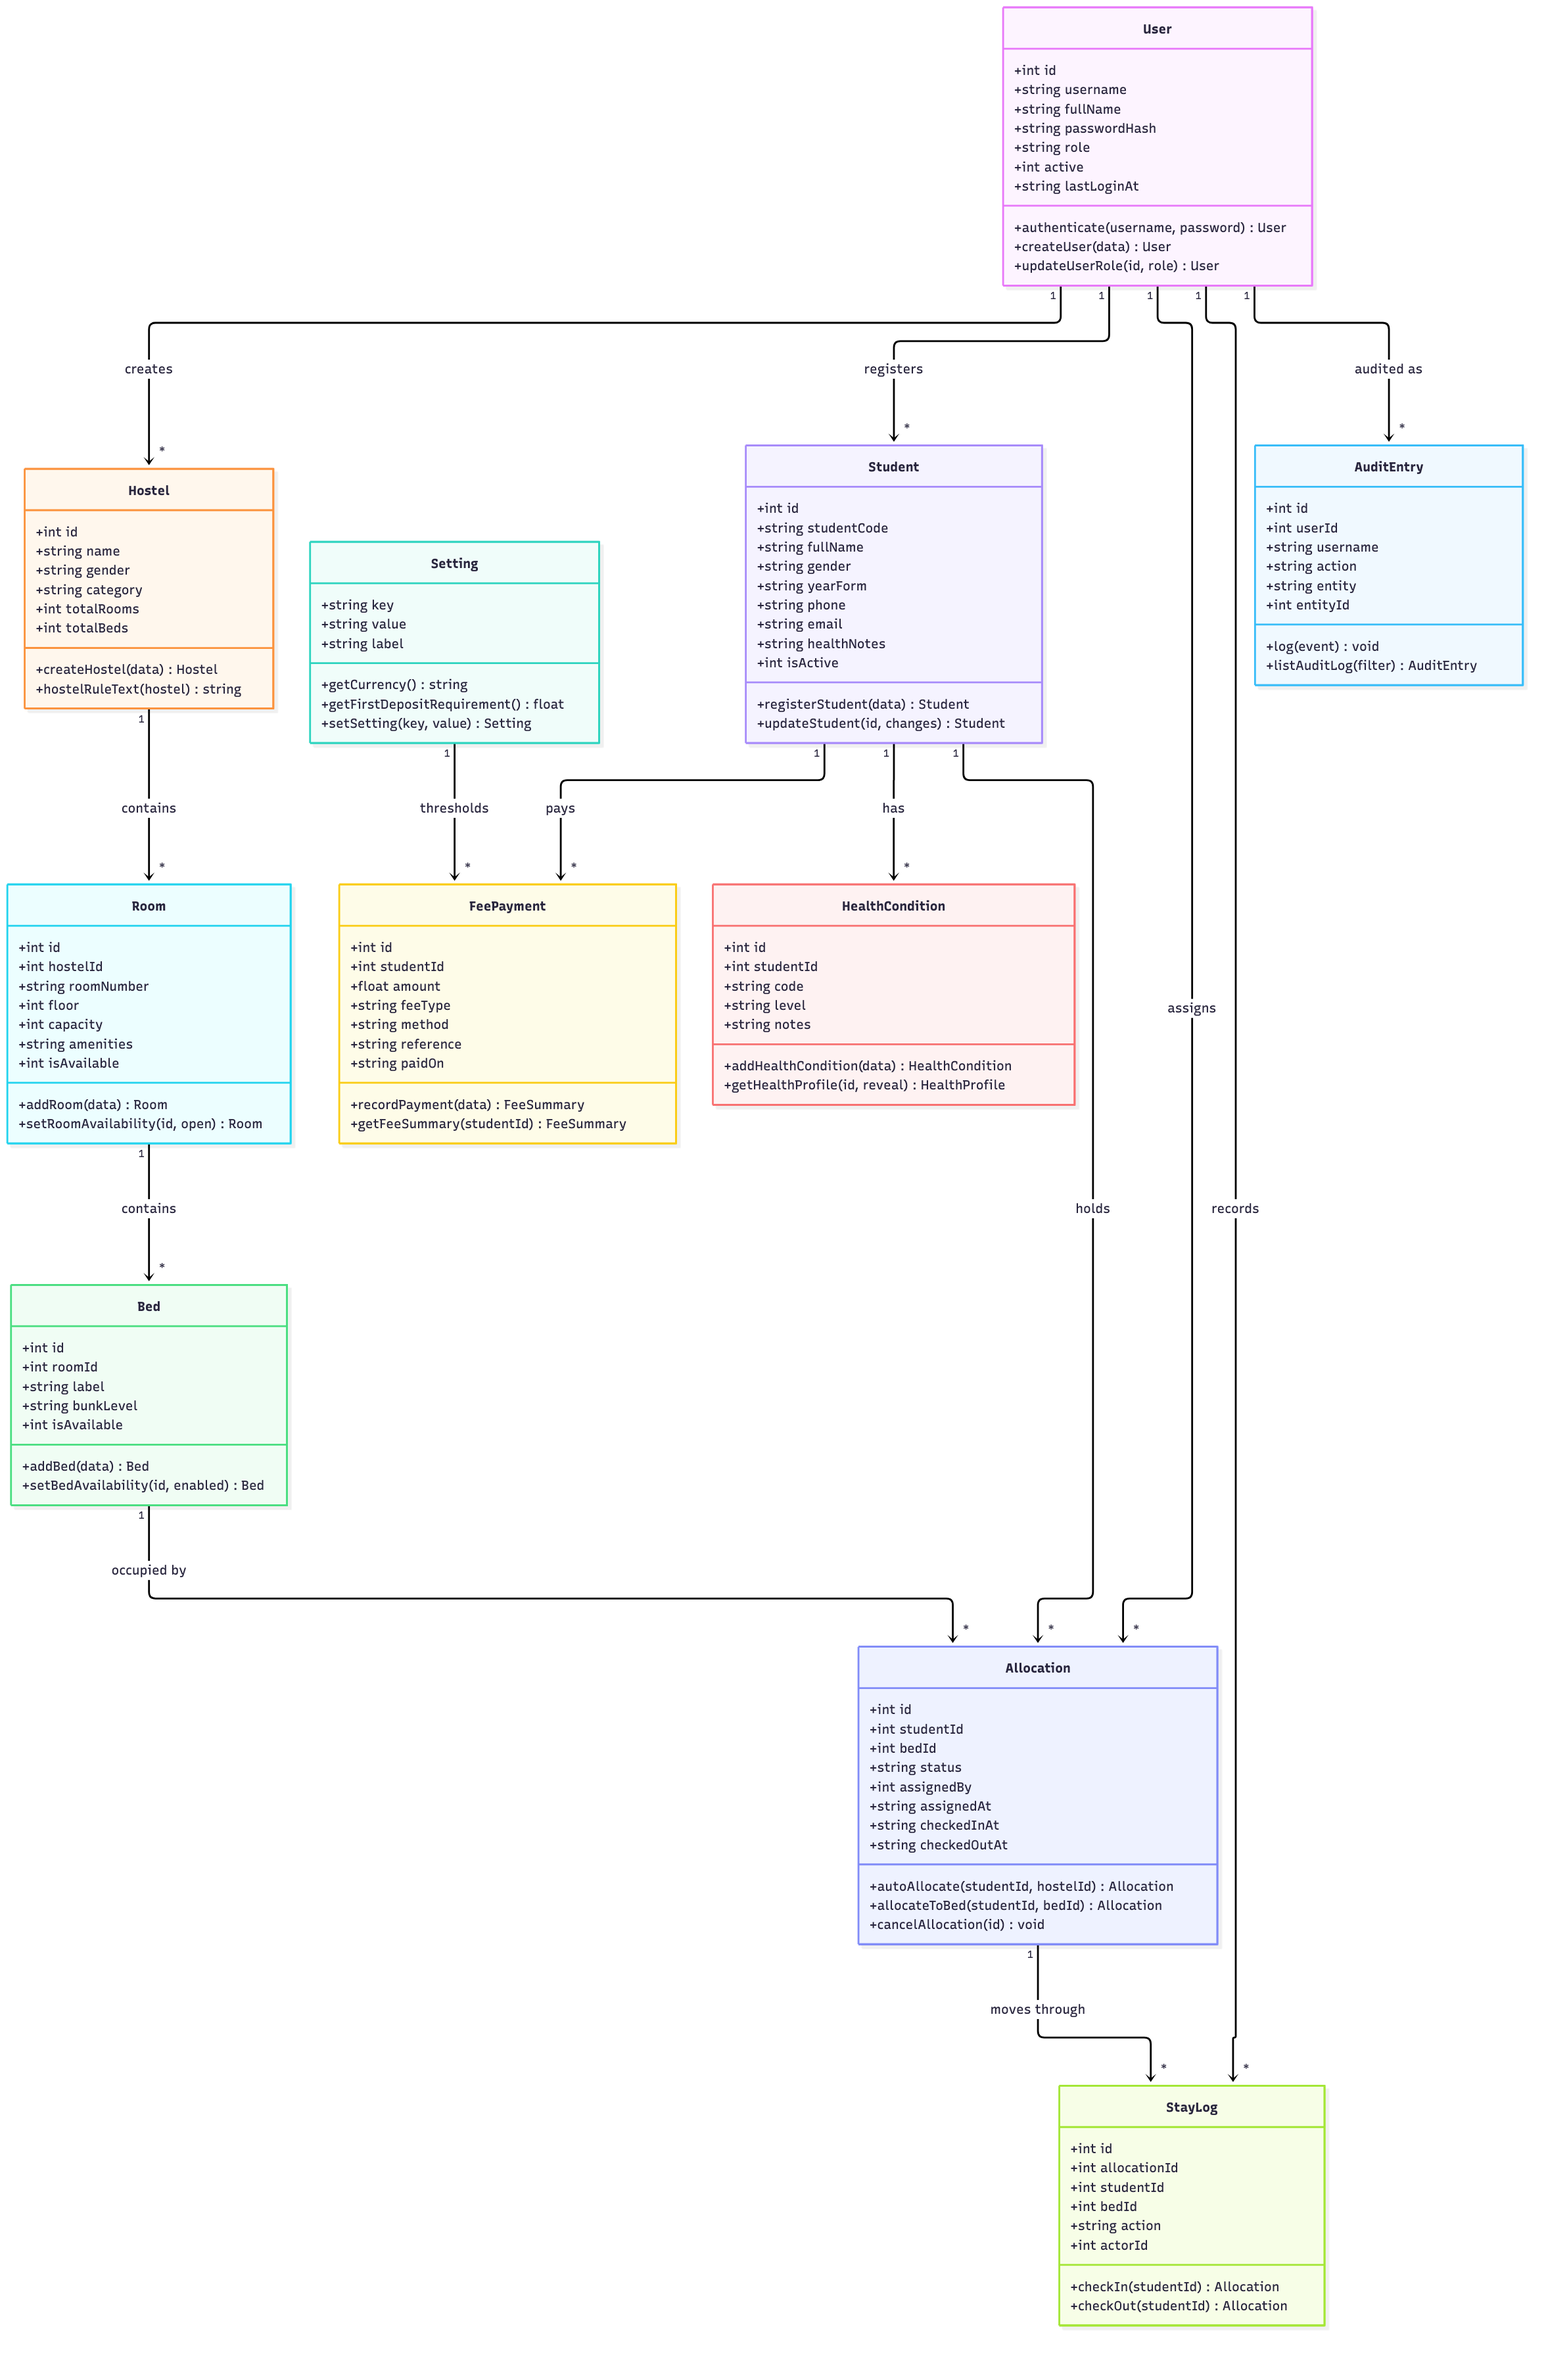
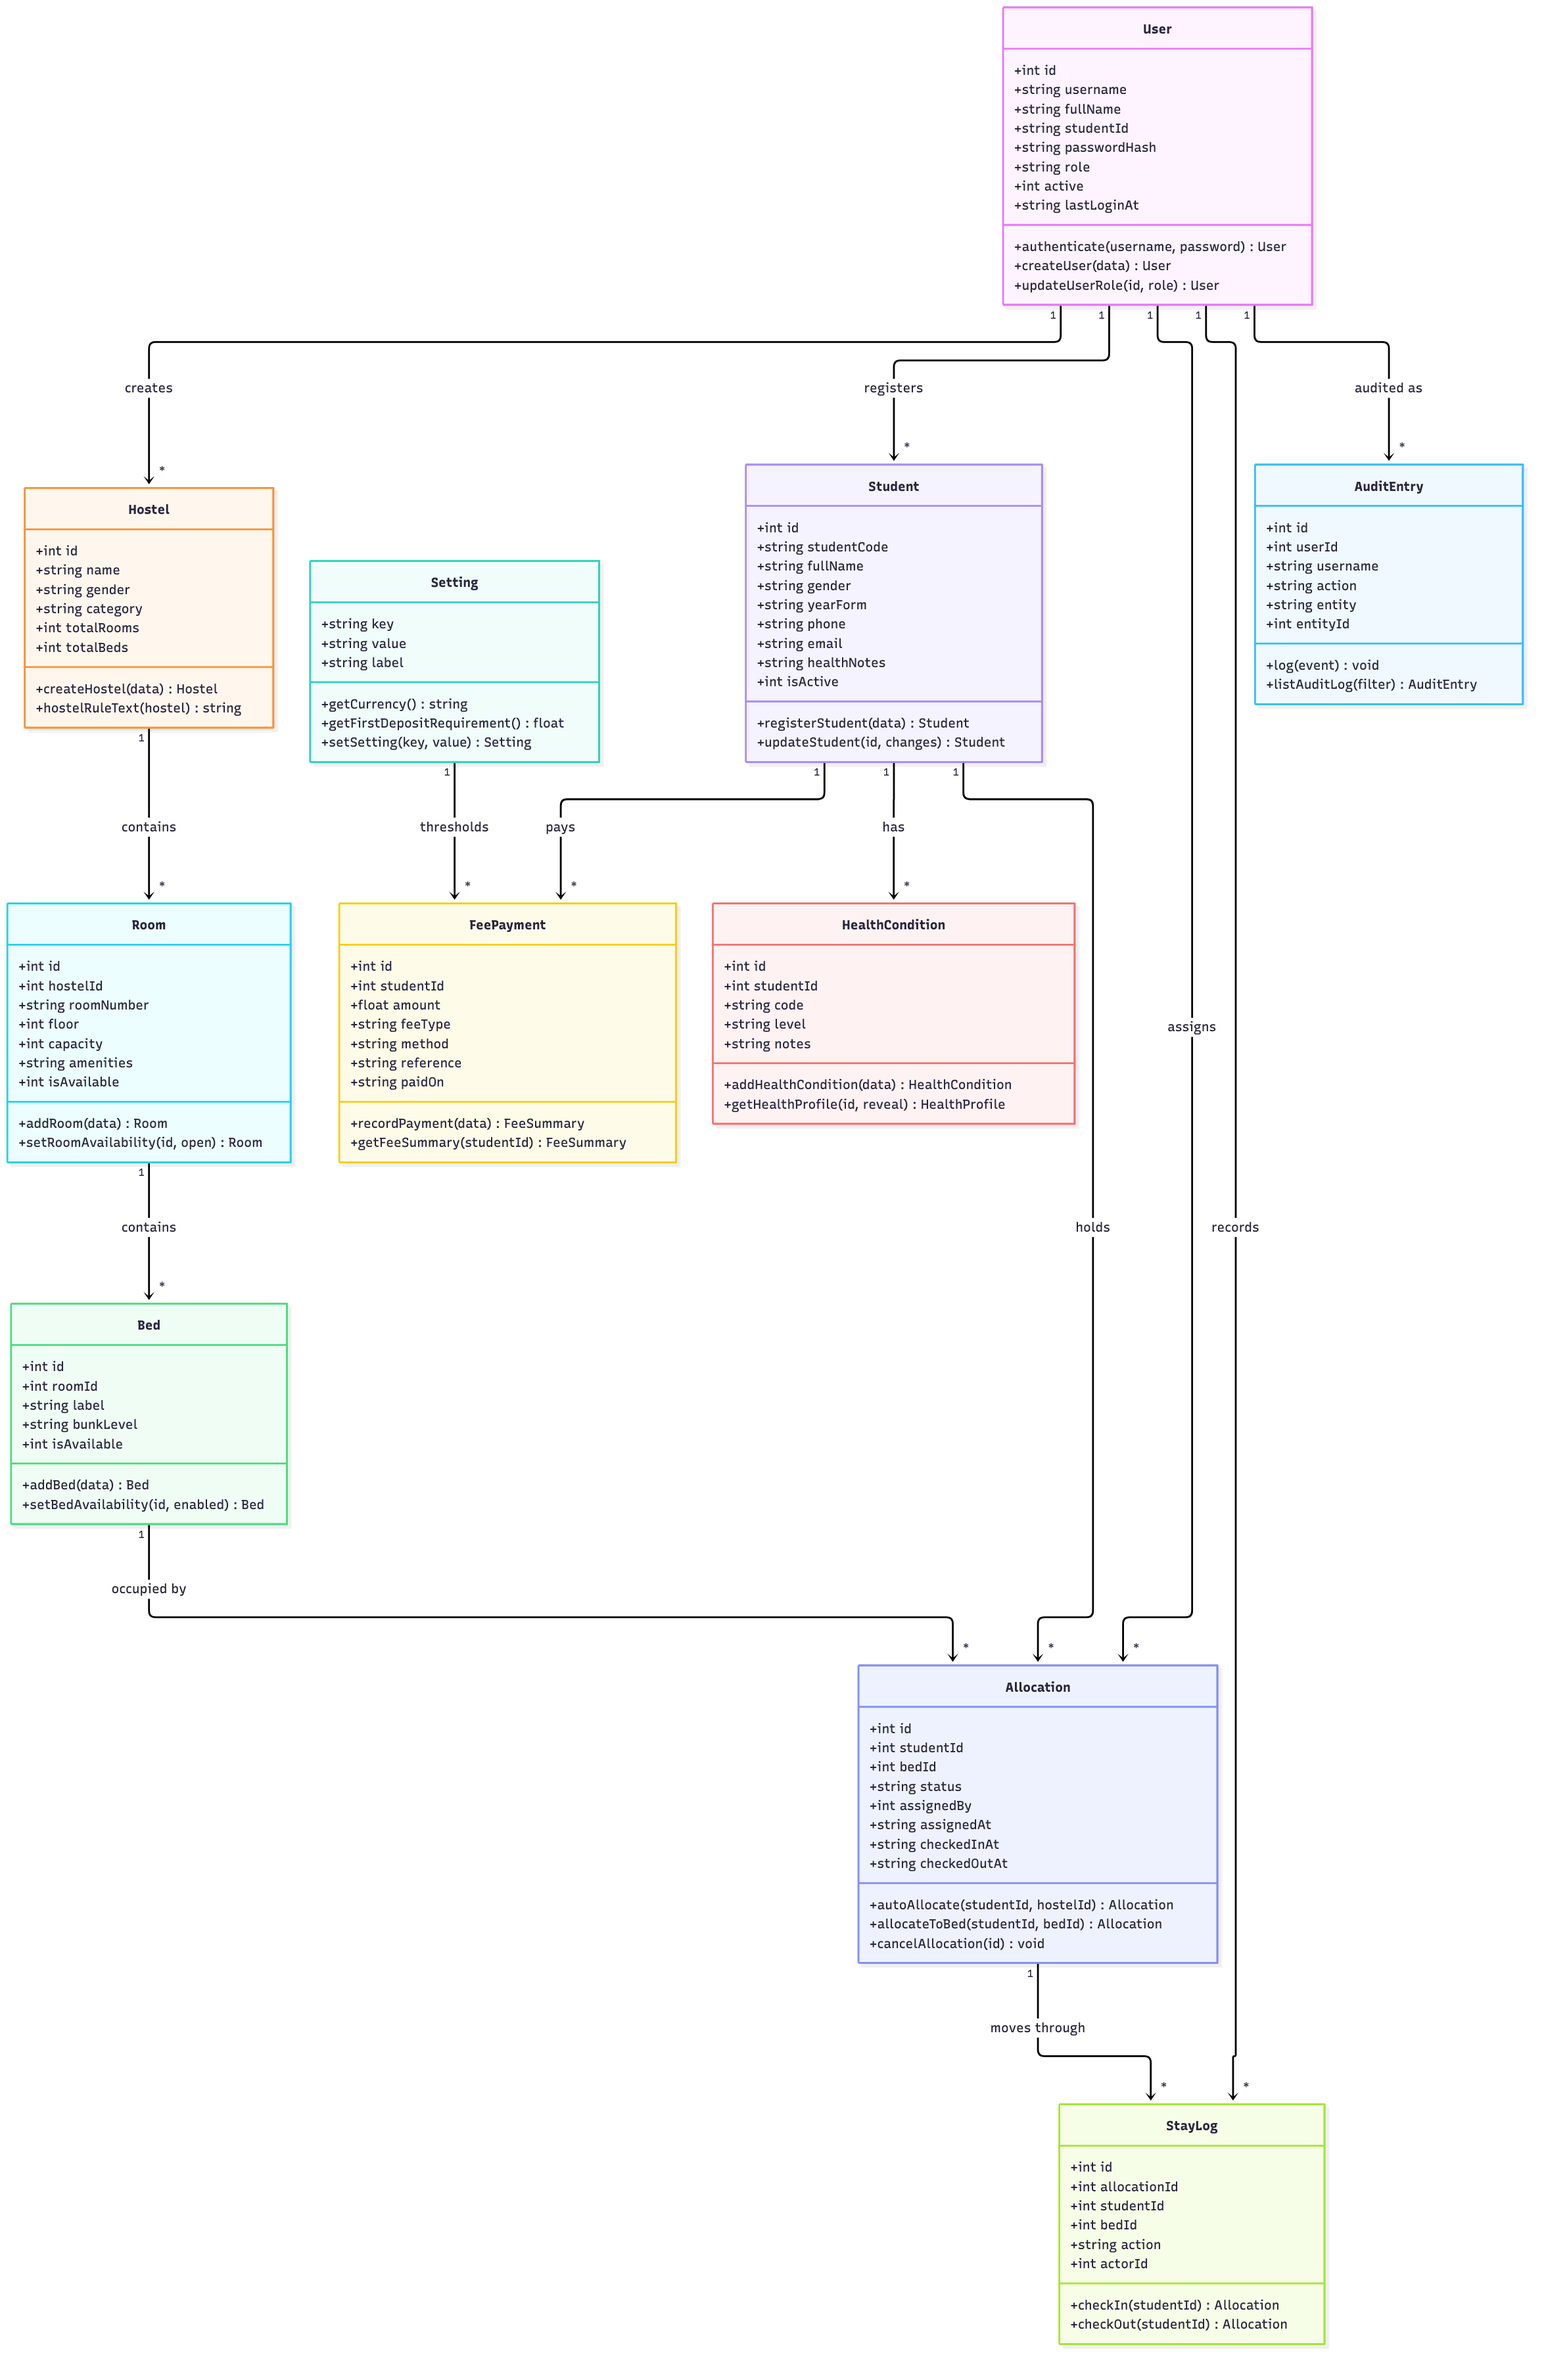
Update README with student ID details and add class and ER diagrams

diff --git a/README.md b/README.md
@@ -79,6 +79,7 @@ erDiagram
         int id PK
         string username UK
         string full_name
+        string student_id "nullable, recorded at sign up"
         string password_hash
         string role "admin|warden|clerk"
         int active "0|1"
@@ -212,6 +213,9 @@ Functional requirements: §1.3 a–g. Dashed arrows are `<<include>>` dependenci
 
 Dependencies: UC4 includes UC3 · UC5 includes UC4, UC9 · UC6 includes UC4.
 
+Self-service sign-up (`src/cli/session.js`) requires a Student ID, recorded on
+`users.student_id` — covered by UC10.
+
 ### 2.3 Class Diagram
 
 Keeps information and shows data types. Entity attributes mirror
@@ -226,6 +230,7 @@ classDiagram
         +int id
         +string username
         +string fullName
+        +string studentId
         +string passwordHash
         +string role
         +int active
